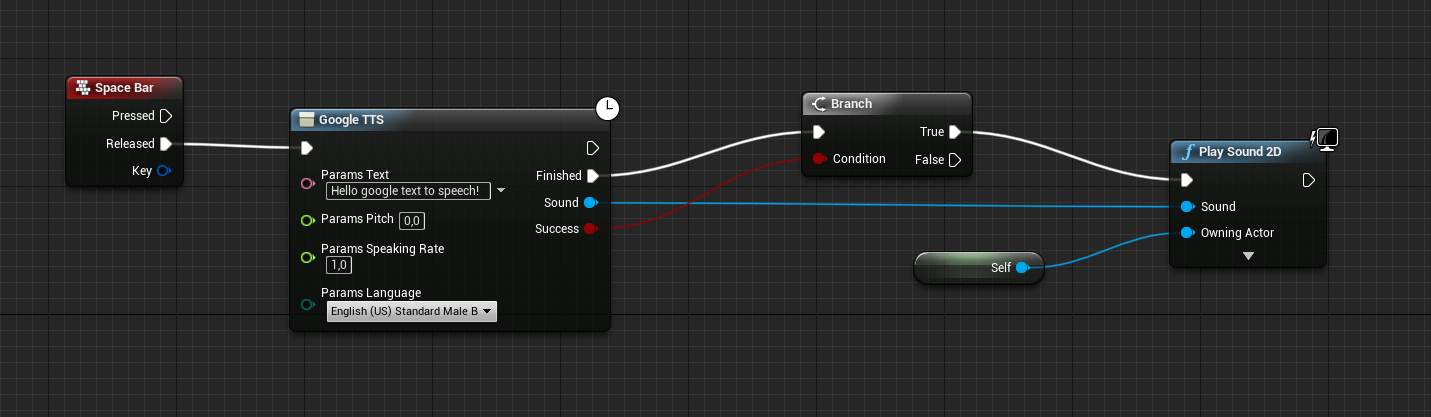
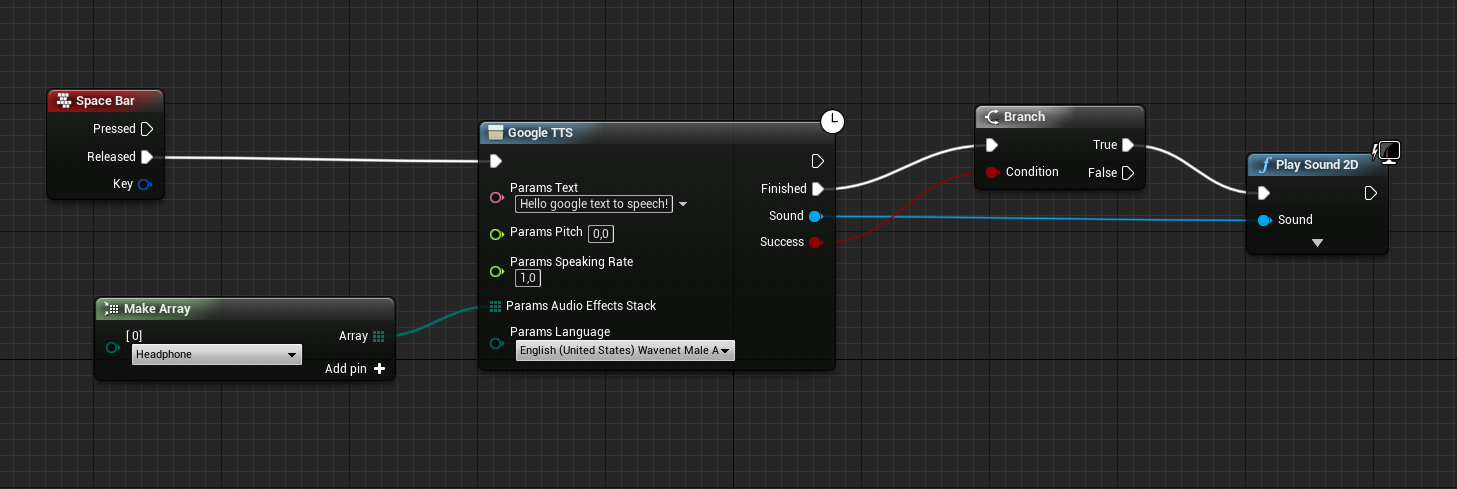
tts update

Changed region(s): [[0.0307, 0.1559, 0.9839, 0.8106], [0.6457, 0.5923, 0.7687, 0.6859], [0.9224, 0.4676, 0.9532, 0.53]]

diff --git a/README.md b/README.md
@@ -23,10 +23,9 @@ Plugin was battle tested in several commercial simulator projects. It is small, 
 
     By default you need to set api key from nodes. To use environment variable, you need to set `Use Env Variable` to `true`.
 
-
 # Speech synthesis
 
-You need to supply text to async node, as well as voice variant, speech speed, and pitch value. As output you will get
+You need to supply text to async node, as well as voice variant, speech speed, pitch value and optionally audio effects. As output you will get
 sound wave object which can be played by engine.
 
 ![](pics/googletts.png)
